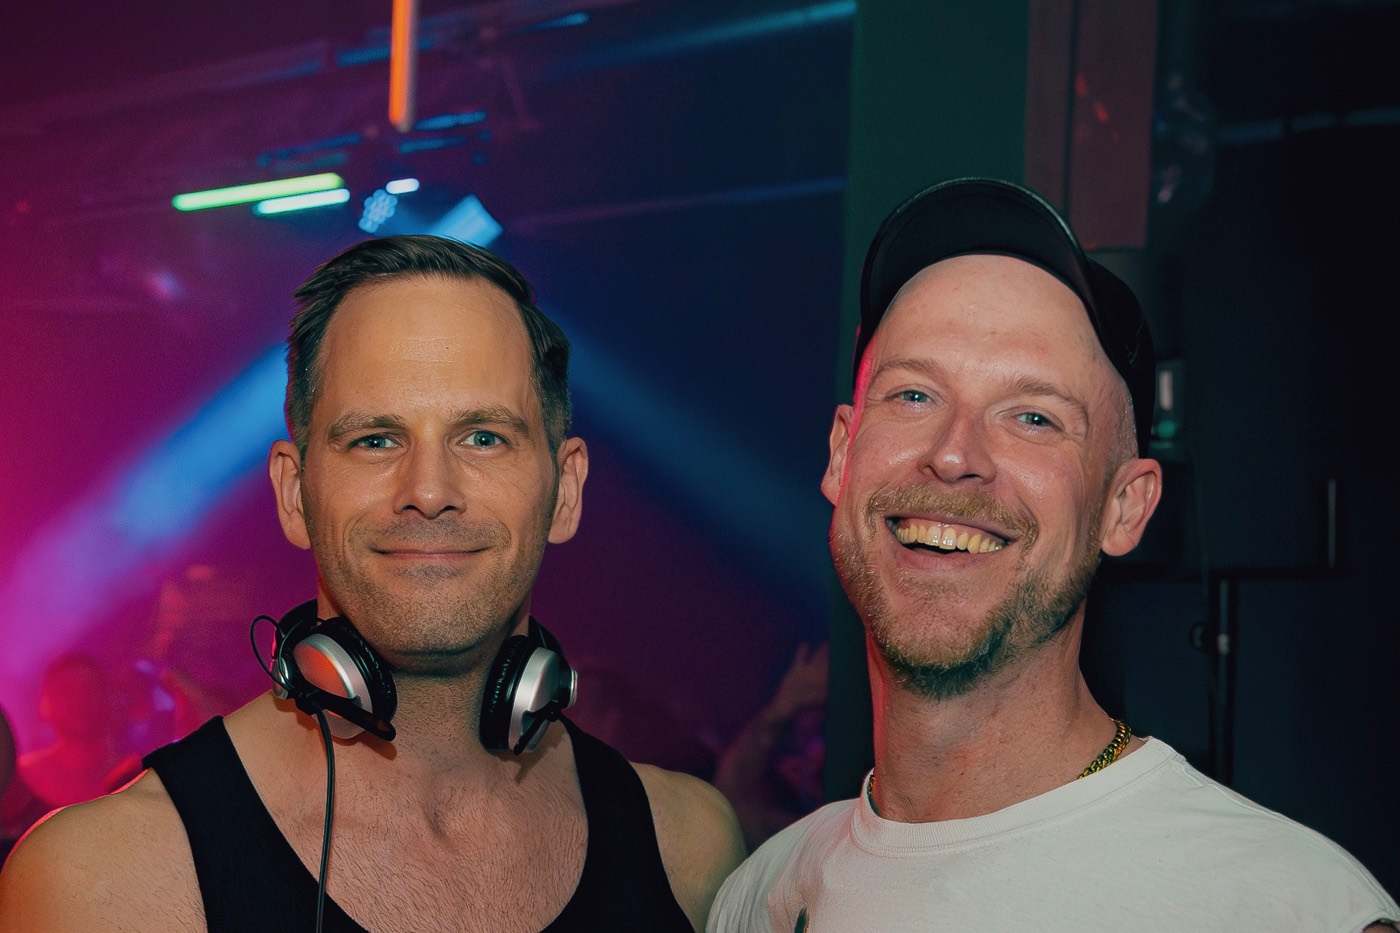
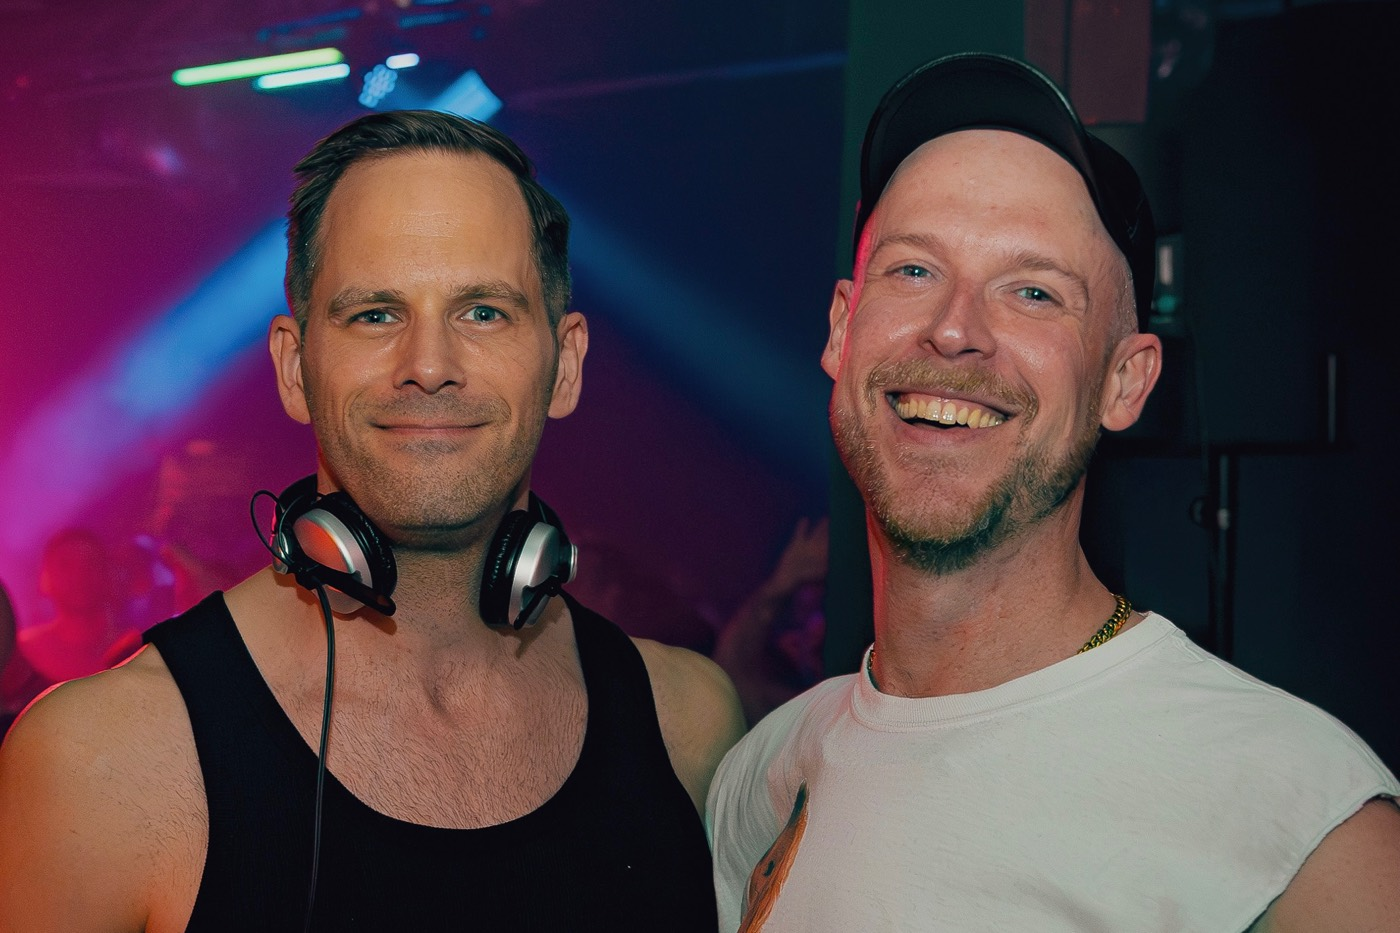
BOPS case: founders photo tighter above the heads and capped in size

diff --git a/it/index.html b/it/index.html
@@ -33,7 +33,7 @@
   <link rel="preload" href="/assets/fonts/baloo-bhai-2-latin-800-normal.woff2" as="font" type="font/woff2" crossorigin>
   <link rel="stylesheet" href="/assets/fonts/fonts.css">
 <link rel="stylesheet" href="/assets/css/base.css?v=bf4333a8">
-<link rel="stylesheet" href="/assets/css/home.css?v=2ac9125b">
+<link rel="stylesheet" href="/assets/css/home.css?v=bf770a6e">
   <script type="application/ld+json">{"@context": "https://schema.org", "@graph": [{"@type": "Person", "@id": "https://imgroot.nl/#evert", "name": "Evert Groot", "alternateName": ["DJ Absoluut", "Absoluut"], "url": "https://imgroot.nl/", "image": "https://imgroot.nl/assets/img/evert-groot-portrait.jpg", "email": "mailto:evert@imgroot.nl", "jobTitle": ["Content Strategist", "DJ", "Content Creator", "Event Organizer"], "knowsAbout": ["Content strategy", "Social media strategy", "Creative direction", "Short-form video", "Pop music", "DJing", "Wedding DJ", "Event organizing", "Queer nightlife"], "areaServed": [{"@type": "Country", "name": "Netherlands"}, {"@type": "Country", "name": "Italy"}], "founder": {"@id": "https://imgroot.nl/#bops"}, "sameAs": ["https://www.instagram.com/absoluut/", "https://www.tiktok.com/@absoluutdj", "https://www.linkedin.com/in/evertgroot", "https://soundcloud.com/absoluut", "https://ra.co/dj/absoluut"], "makesOffer": [{"@type": "Offer", "itemOffered": {"@type": "Service", "name": "Strategia dei contenuti e direzione creativa", "areaServed": ["NL", "IT"]}}, {"@type": "Offer", "itemOffered": {"@type": "Service", "name": "DJ per club, festival, eventi aziendali e matrimoni", "areaServed": ["NL", "BE", "IT"]}}, {"@type": "Offer", "itemOffered": {"@type": "Service", "name": "Organizzazione di eventi", "areaServed": ["NL", "IT"]}}, {"@type": "Offer", "itemOffered": {"@type": "Service", "name": "Collaborazioni con creator e video brevi", "areaServed": ["NL", "IT"]}}]}, {"@type": "Organization", "@id": "https://imgroot.nl/#bops", "name": "BOPS", "description": "Queer pop party at The Other Side, Amsterdam", "url": "https://www.instagram.com/bops.ams/", "sameAs": ["https://www.instagram.com/bops.ams/"]}, {"@type": "WebSite", "@id": "https://imgroot.nl/#website", "url": "https://imgroot.nl/", "name": "Evert Groot", "inLanguage": ["en", "nl", "it"], "publisher": {"@id": "https://imgroot.nl/#evert"}}]}</script>
   <script data-goatcounter="https://imgroot.goatcounter.com/count" async src="https://gc.zgo.at/count.js"></script>
   <script src="/assets/site.js?v=fc7cdb51" defer></script>

diff --git a/nl/index.html b/nl/index.html
@@ -33,7 +33,7 @@
   <link rel="preload" href="/assets/fonts/baloo-bhai-2-latin-800-normal.woff2" as="font" type="font/woff2" crossorigin>
   <link rel="stylesheet" href="/assets/fonts/fonts.css">
 <link rel="stylesheet" href="/assets/css/base.css?v=bf4333a8">
-<link rel="stylesheet" href="/assets/css/home.css?v=2ac9125b">
+<link rel="stylesheet" href="/assets/css/home.css?v=bf770a6e">
   <script type="application/ld+json">{"@context": "https://schema.org", "@graph": [{"@type": "Person", "@id": "https://imgroot.nl/#evert", "name": "Evert Groot", "alternateName": ["DJ Absoluut", "Absoluut"], "url": "https://imgroot.nl/", "image": "https://imgroot.nl/assets/img/evert-groot-portrait.jpg", "email": "mailto:evert@imgroot.nl", "jobTitle": ["Content Strategist", "DJ", "Content Creator", "Event Organizer"], "knowsAbout": ["Content strategy", "Social media strategy", "Creative direction", "Short-form video", "Pop music", "DJing", "Wedding DJ", "Event organizing", "Queer nightlife"], "areaServed": [{"@type": "Country", "name": "Netherlands"}, {"@type": "Country", "name": "Italy"}], "founder": {"@id": "https://imgroot.nl/#bops"}, "sameAs": ["https://www.instagram.com/absoluut/", "https://www.tiktok.com/@absoluutdj", "https://www.linkedin.com/in/evertgroot", "https://soundcloud.com/absoluut", "https://ra.co/dj/absoluut"], "makesOffer": [{"@type": "Offer", "itemOffered": {"@type": "Service", "name": "Contentstrategie en creatieve regie", "areaServed": ["NL", "IT"]}}, {"@type": "Offer", "itemOffered": {"@type": "Service", "name": "DJ voor clubs, festivals, brand events en bruiloften", "areaServed": ["NL", "BE", "IT"]}}, {"@type": "Offer", "itemOffered": {"@type": "Service", "name": "Events organiseren", "areaServed": ["NL", "IT"]}}, {"@type": "Offer", "itemOffered": {"@type": "Service", "name": "Creator-samenwerkingen en short-form video", "areaServed": ["NL", "IT"]}}]}, {"@type": "Organization", "@id": "https://imgroot.nl/#bops", "name": "BOPS", "description": "Queer pop party at The Other Side, Amsterdam", "url": "https://www.instagram.com/bops.ams/", "sameAs": ["https://www.instagram.com/bops.ams/"]}, {"@type": "WebSite", "@id": "https://imgroot.nl/#website", "url": "https://imgroot.nl/", "name": "Evert Groot", "inLanguage": ["en", "nl", "it"], "publisher": {"@id": "https://imgroot.nl/#evert"}}]}</script>
   <script data-goatcounter="https://imgroot.goatcounter.com/count" async src="https://gc.zgo.at/count.js"></script>
   <script src="/assets/site.js?v=fc7cdb51" defer></script>

diff --git a/index.html b/index.html
@@ -33,7 +33,7 @@
   <link rel="preload" href="/assets/fonts/baloo-bhai-2-latin-800-normal.woff2" as="font" type="font/woff2" crossorigin>
   <link rel="stylesheet" href="/assets/fonts/fonts.css">
 <link rel="stylesheet" href="/assets/css/base.css?v=bf4333a8">
-<link rel="stylesheet" href="/assets/css/home.css?v=2ac9125b">
+<link rel="stylesheet" href="/assets/css/home.css?v=bf770a6e">
   <script type="application/ld+json">{"@context": "https://schema.org", "@graph": [{"@type": "Person", "@id": "https://imgroot.nl/#evert", "name": "Evert Groot", "alternateName": ["DJ Absoluut", "Absoluut"], "url": "https://imgroot.nl/", "image": "https://imgroot.nl/assets/img/evert-groot-portrait.jpg", "email": "mailto:evert@imgroot.nl", "jobTitle": ["Content Strategist", "DJ", "Content Creator", "Event Organizer"], "knowsAbout": ["Content strategy", "Social media strategy", "Creative direction", "Short-form video", "Pop music", "DJing", "Wedding DJ", "Event organizing", "Queer nightlife"], "areaServed": [{"@type": "Country", "name": "Netherlands"}, {"@type": "Country", "name": "Italy"}], "founder": {"@id": "https://imgroot.nl/#bops"}, "sameAs": ["https://www.instagram.com/absoluut/", "https://www.tiktok.com/@absoluutdj", "https://www.linkedin.com/in/evertgroot", "https://soundcloud.com/absoluut", "https://ra.co/dj/absoluut"], "makesOffer": [{"@type": "Offer", "itemOffered": {"@type": "Service", "name": "Content strategy and creative direction", "areaServed": ["NL", "IT"]}}, {"@type": "Offer", "itemOffered": {"@type": "Service", "name": "DJ for clubs, festivals, brand events and weddings", "areaServed": ["NL", "BE", "IT"]}}, {"@type": "Offer", "itemOffered": {"@type": "Service", "name": "Event organizing", "areaServed": ["NL", "IT"]}}, {"@type": "Offer", "itemOffered": {"@type": "Service", "name": "Creator partnerships and short-form video", "areaServed": ["NL", "IT"]}}]}, {"@type": "Organization", "@id": "https://imgroot.nl/#bops", "name": "BOPS", "description": "Queer pop party at The Other Side, Amsterdam", "url": "https://www.instagram.com/bops.ams/", "sameAs": ["https://www.instagram.com/bops.ams/"]}, {"@type": "WebSite", "@id": "https://imgroot.nl/#website", "url": "https://imgroot.nl/", "name": "Evert Groot", "inLanguage": ["en", "nl", "it"], "publisher": {"@id": "https://imgroot.nl/#evert"}}]}</script>
   <script data-goatcounter="https://imgroot.goatcounter.com/count" async src="https://gc.zgo.at/count.js"></script>
   <script src="/assets/site.js?v=fc7cdb51" defer></script>

diff --git a/it/work/bops/index.html b/it/work/bops/index.html
@@ -33,7 +33,7 @@
   <link rel="preload" href="/assets/fonts/baloo-bhai-2-latin-800-normal.woff2" as="font" type="font/woff2" crossorigin>
   <link rel="stylesheet" href="/assets/fonts/fonts.css">
 <link rel="stylesheet" href="/assets/css/base.css?v=bf4333a8">
-<link rel="stylesheet" href="/assets/css/home.css?v=2ac9125b">
+<link rel="stylesheet" href="/assets/css/home.css?v=bf770a6e">
   
   <script data-goatcounter="https://imgroot.goatcounter.com/count" async src="https://gc.zgo.at/count.js"></script>
   <script src="/assets/site.js?v=fc7cdb51" defer></script>
@@ -189,7 +189,7 @@
           <p class="cs-intro">È diventato una serata in club con tanto amore e sostegno da parte della comunità queer di Amsterdam. Ogni edizione la costruiamo ancora insieme.</p>
           <p class="cs-bops-link"><a class="hv-tl hv-lt" href="https://linktr.ee/bops.ams" target="_blank" rel="noopener noreferrer">Prossima edizione e biglietti<span class="hv-ar hv-ne" aria-hidden="true">↗</span><span class="sr-only"> (si apre in una nuova scheda)</span></a></p>
         </div>
-        <figure class="cs-founders"><img loading="lazy" decoding="async" width="1400" height="933" src="/assets/img/work/bops/founders-2024-wide.jpg" alt="Absoluut e TMORGZ, i fondatori di BOPS, all’edizione di maggio 2024"><figcaption>Absoluut &amp; TMORGZ</figcaption></figure>
+        <figure class="cs-founders"><img loading="lazy" decoding="async" width="1400" height="933" src="/assets/img/work/bops/founders-2024-wide.jpg?v=2" alt="Absoluut e TMORGZ, i fondatori di BOPS, all’edizione di maggio 2024"><figcaption>Absoluut &amp; TMORGZ</figcaption></figure>
       </div>
     </section>
 

diff --git a/nl/work/bops/index.html b/nl/work/bops/index.html
@@ -33,7 +33,7 @@
   <link rel="preload" href="/assets/fonts/baloo-bhai-2-latin-800-normal.woff2" as="font" type="font/woff2" crossorigin>
   <link rel="stylesheet" href="/assets/fonts/fonts.css">
 <link rel="stylesheet" href="/assets/css/base.css?v=bf4333a8">
-<link rel="stylesheet" href="/assets/css/home.css?v=2ac9125b">
+<link rel="stylesheet" href="/assets/css/home.css?v=bf770a6e">
   
   <script data-goatcounter="https://imgroot.goatcounter.com/count" async src="https://gc.zgo.at/count.js"></script>
   <script src="/assets/site.js?v=fc7cdb51" defer></script>
@@ -189,7 +189,7 @@
           <p class="cs-intro">Het groeide uit tot een clubavond met heel veel liefde en steun van de queer community van Amsterdam. We maken nog steeds elke editie samen.</p>
           <p class="cs-bops-link"><a class="hv-tl hv-lt" href="https://linktr.ee/bops.ams" target="_blank" rel="noopener noreferrer">Volgende editie en tickets<span class="hv-ar hv-ne" aria-hidden="true">↗</span><span class="sr-only"> (opent in een nieuw tabblad)</span></a></p>
         </div>
-        <figure class="cs-founders"><img loading="lazy" decoding="async" width="1400" height="933" src="/assets/img/work/bops/founders-2024-wide.jpg" alt="Absoluut en TMORGZ, de oprichters van BOPS, op de editie van mei 2024"><figcaption>Absoluut &amp; TMORGZ</figcaption></figure>
+        <figure class="cs-founders"><img loading="lazy" decoding="async" width="1400" height="933" src="/assets/img/work/bops/founders-2024-wide.jpg?v=2" alt="Absoluut en TMORGZ, de oprichters van BOPS, op de editie van mei 2024"><figcaption>Absoluut &amp; TMORGZ</figcaption></figure>
       </div>
     </section>
 

diff --git a/work/bops/index.html b/work/bops/index.html
@@ -33,7 +33,7 @@
   <link rel="preload" href="/assets/fonts/baloo-bhai-2-latin-800-normal.woff2" as="font" type="font/woff2" crossorigin>
   <link rel="stylesheet" href="/assets/fonts/fonts.css">
 <link rel="stylesheet" href="/assets/css/base.css?v=bf4333a8">
-<link rel="stylesheet" href="/assets/css/home.css?v=2ac9125b">
+<link rel="stylesheet" href="/assets/css/home.css?v=bf770a6e">
   
   <script data-goatcounter="https://imgroot.goatcounter.com/count" async src="https://gc.zgo.at/count.js"></script>
   <script src="/assets/site.js?v=fc7cdb51" defer></script>
@@ -194,7 +194,7 @@
           <p class="cs-intro">It grew into a club night through a lot of love and support from Amsterdam’s queer community. We still build every edition together.</p>
           <p class="cs-bops-link"><a class="hv-tl hv-lt" href="https://linktr.ee/bops.ams" target="_blank" rel="noopener noreferrer">Next edition and tickets<span class="hv-ar hv-ne" aria-hidden="true">↗</span><span class="sr-only"> (opens in a new tab)</span></a></p>
         </div>
-        <figure class="cs-founders"><img loading="lazy" decoding="async" width="1400" height="933" src="/assets/img/work/bops/founders-2024-wide.jpg" alt="Absoluut and TMORGZ, the founders of BOPS, at the May 2024 edition"><figcaption>Absoluut &amp; TMORGZ</figcaption></figure>
+        <figure class="cs-founders"><img loading="lazy" decoding="async" width="1400" height="933" src="/assets/img/work/bops/founders-2024-wide.jpg?v=2" alt="Absoluut and TMORGZ, the founders of BOPS, at the May 2024 edition"><figcaption>Absoluut &amp; TMORGZ</figcaption></figure>
       </div>
     </section>
 

diff --git a/assets/css/home.css b/assets/css/home.css
@@ -816,3 +816,7 @@ div:has(> main.cs-bops){overflow-x:clip}
 .cs-bops .cs-band-red .cs-row p{font-size:clamp(18px,1.5vw,20px)}
 @media (max-width:600px){.cs-bops .cs-partners{grid-template-columns:1fr}}
 @media (max-width:600px){.cs-bops .cs-partners .cs-guest-card.cs-partner-card{padding:22px}.cs-bops .cs-partners .cs-partner-card h3{font-size:24px}}
+/* BOPS: founders photo capped in size, cropped tight above the heads */
+.cs-split-founders .cs-founders{max-width:880px}
+.cs-split-founders .cs-founders img{aspect-ratio:16 / 9;object-position:50% 0}
+@media (max-width:700px){.cs-split-founders .cs-founders img{aspect-ratio:4 / 3}}

diff --git a/it/work/forward/index.html b/it/work/forward/index.html
@@ -33,7 +33,7 @@
   <link rel="preload" href="/assets/fonts/baloo-bhai-2-latin-800-normal.woff2" as="font" type="font/woff2" crossorigin>
   <link rel="stylesheet" href="/assets/fonts/fonts.css">
 <link rel="stylesheet" href="/assets/css/base.css?v=bf4333a8">
-<link rel="stylesheet" href="/assets/css/home.css?v=2ac9125b">
+<link rel="stylesheet" href="/assets/css/home.css?v=bf770a6e">
   
   <script data-goatcounter="https://imgroot.goatcounter.com/count" async src="https://gc.zgo.at/count.js"></script>
   <script src="/assets/site.js?v=fc7cdb51" defer></script>

diff --git a/it/work/soa-aids/index.html b/it/work/soa-aids/index.html
@@ -33,7 +33,7 @@
   <link rel="preload" href="/assets/fonts/baloo-bhai-2-latin-800-normal.woff2" as="font" type="font/woff2" crossorigin>
   <link rel="stylesheet" href="/assets/fonts/fonts.css">
 <link rel="stylesheet" href="/assets/css/base.css?v=bf4333a8">
-<link rel="stylesheet" href="/assets/css/home.css?v=2ac9125b">
+<link rel="stylesheet" href="/assets/css/home.css?v=bf770a6e">
   
   <script data-goatcounter="https://imgroot.goatcounter.com/count" async src="https://gc.zgo.at/count.js"></script>
   <script src="/assets/site.js?v=fc7cdb51" defer></script>

diff --git a/it/work/the-best-social/index.html b/it/work/the-best-social/index.html
@@ -33,7 +33,7 @@
   <link rel="preload" href="/assets/fonts/baloo-bhai-2-latin-800-normal.woff2" as="font" type="font/woff2" crossorigin>
   <link rel="stylesheet" href="/assets/fonts/fonts.css">
 <link rel="stylesheet" href="/assets/css/base.css?v=bf4333a8">
-<link rel="stylesheet" href="/assets/css/home.css?v=2ac9125b">
+<link rel="stylesheet" href="/assets/css/home.css?v=bf770a6e">
   
   <script data-goatcounter="https://imgroot.goatcounter.com/count" async src="https://gc.zgo.at/count.js"></script>
   <script src="/assets/site.js?v=fc7cdb51" defer></script>

diff --git a/nl/work/forward/index.html b/nl/work/forward/index.html
@@ -33,7 +33,7 @@
   <link rel="preload" href="/assets/fonts/baloo-bhai-2-latin-800-normal.woff2" as="font" type="font/woff2" crossorigin>
   <link rel="stylesheet" href="/assets/fonts/fonts.css">
 <link rel="stylesheet" href="/assets/css/base.css?v=bf4333a8">
-<link rel="stylesheet" href="/assets/css/home.css?v=2ac9125b">
+<link rel="stylesheet" href="/assets/css/home.css?v=bf770a6e">
   
   <script data-goatcounter="https://imgroot.goatcounter.com/count" async src="https://gc.zgo.at/count.js"></script>
   <script src="/assets/site.js?v=fc7cdb51" defer></script>

diff --git a/nl/work/soa-aids/index.html b/nl/work/soa-aids/index.html
@@ -33,7 +33,7 @@
   <link rel="preload" href="/assets/fonts/baloo-bhai-2-latin-800-normal.woff2" as="font" type="font/woff2" crossorigin>
   <link rel="stylesheet" href="/assets/fonts/fonts.css">
 <link rel="stylesheet" href="/assets/css/base.css?v=bf4333a8">
-<link rel="stylesheet" href="/assets/css/home.css?v=2ac9125b">
+<link rel="stylesheet" href="/assets/css/home.css?v=bf770a6e">
   
   <script data-goatcounter="https://imgroot.goatcounter.com/count" async src="https://gc.zgo.at/count.js"></script>
   <script src="/assets/site.js?v=fc7cdb51" defer></script>
